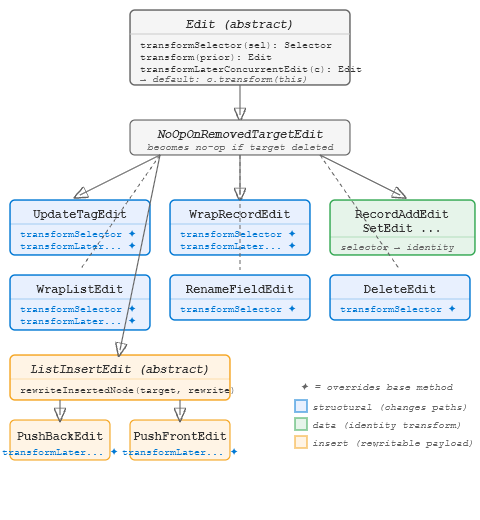
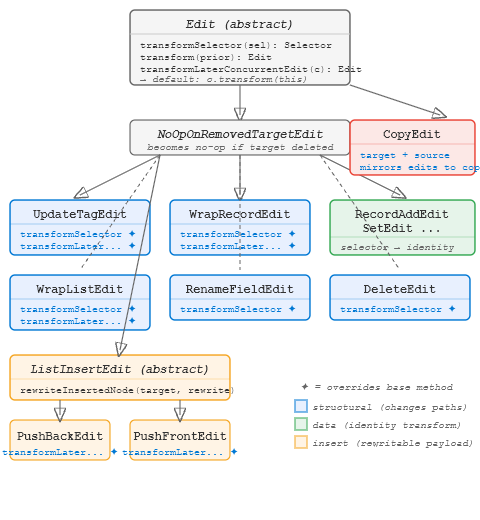
Add CopyEdit to class diagram and explain mirroring behavior
CopyEdit extends Edit directly (two selectors), mirrors concurrent
edits from source to target via CompositeEdit. Diagram updated.

Changed region(s): [[0.7188, 0.1846, 1.0, 0.3385], [0.75, 0.1538, 0.7812, 0.1846]]

diff --git a/4-implementation.md b/4-implementation.md
@@ -144,6 +144,8 @@ A naive OT implementation requires O(n²) transformation rules, one for every pa
 
 **Level 2: Payload rewriting (overrides).** Selector transformation alone is insufficient when a structural edit interacts with a concurrent list insert --- the inserted node's *payload* must also be transformed. For example, when `updateTag("items/*", "tr")` is concurrent with `pushBack("items", {$tag: "li", ...})`, the inserted node must change its tag from `<li>` to `<tr>`. Only structural edits that change the document shape override `transformLaterConcurrentEdit`: `UpdateTagEdit` changes the inserted node's tag, `WrapRecordEdit` wraps it in a record, and `WrapListEdit` wraps it in a list. This scales linearly with the number of structural edit types, not quadratically.
 
+**CopyEdit.** `CopyEdit` extends `Edit` directly (not `NoOpOnRemovedTargetEdit`) because it has two selectors --- `target` and `source` --- both of which must be checked for removal. If either is deleted by a concurrent edit, the copy becomes a no-op. More importantly, `CopyEdit` *mirrors* concurrent edits: when a concurrent edit modifies the source, the same modification is replicated onto the copy target. This is implemented by `transformLaterConcurrentEdit` wrapping the concurrent edit in a `CompositeEdit` that applies it to both the original target and the mirrored copy target. This ensures that copied data stays consistent with its source as both evolve under concurrent editing.
+
 ### Wildcard edits and concurrent insertions {#sec:wildcard-concurrent}
 
 A notable property of the OT-based replay approach is how wildcard edits interact with concurrent insertions, illustrated in [@Fig:wildcard-diamond]. This property is important because wildcard edits are a core feature of Denicek's end-user programming model --- users apply structural transformations to all items in a list (e.g., refactoring a conference list into a table, as demonstrated in [@Sec:conf-concurrent]). When one user refactors the list while another concurrently adds new items, the new items should also be refactored.
